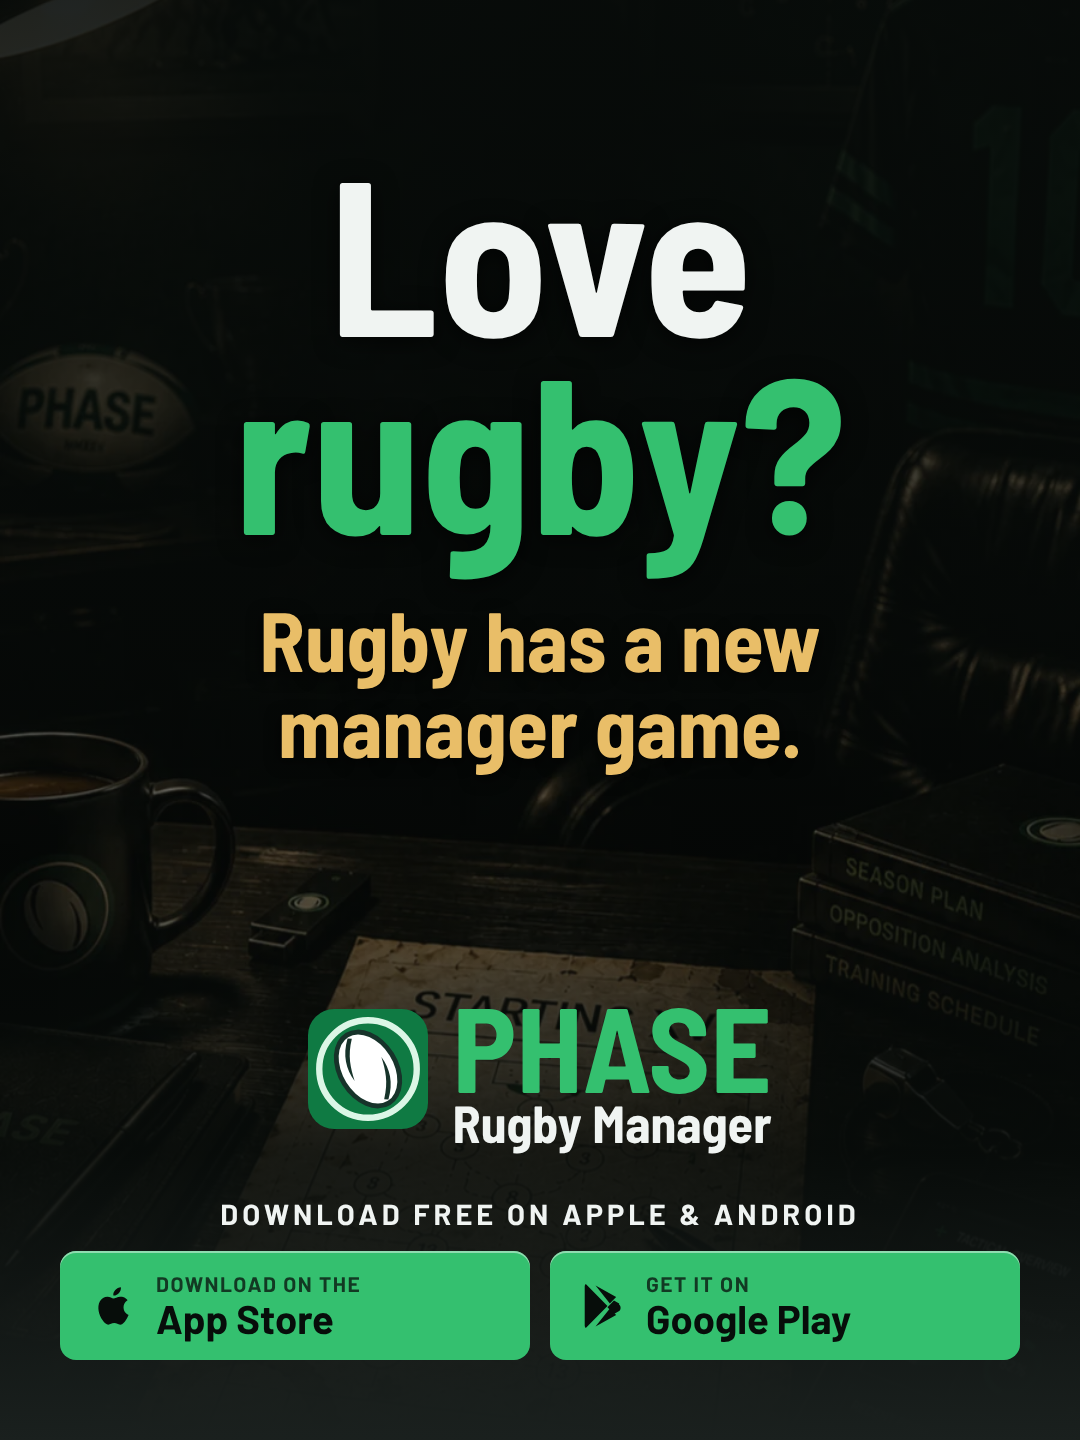
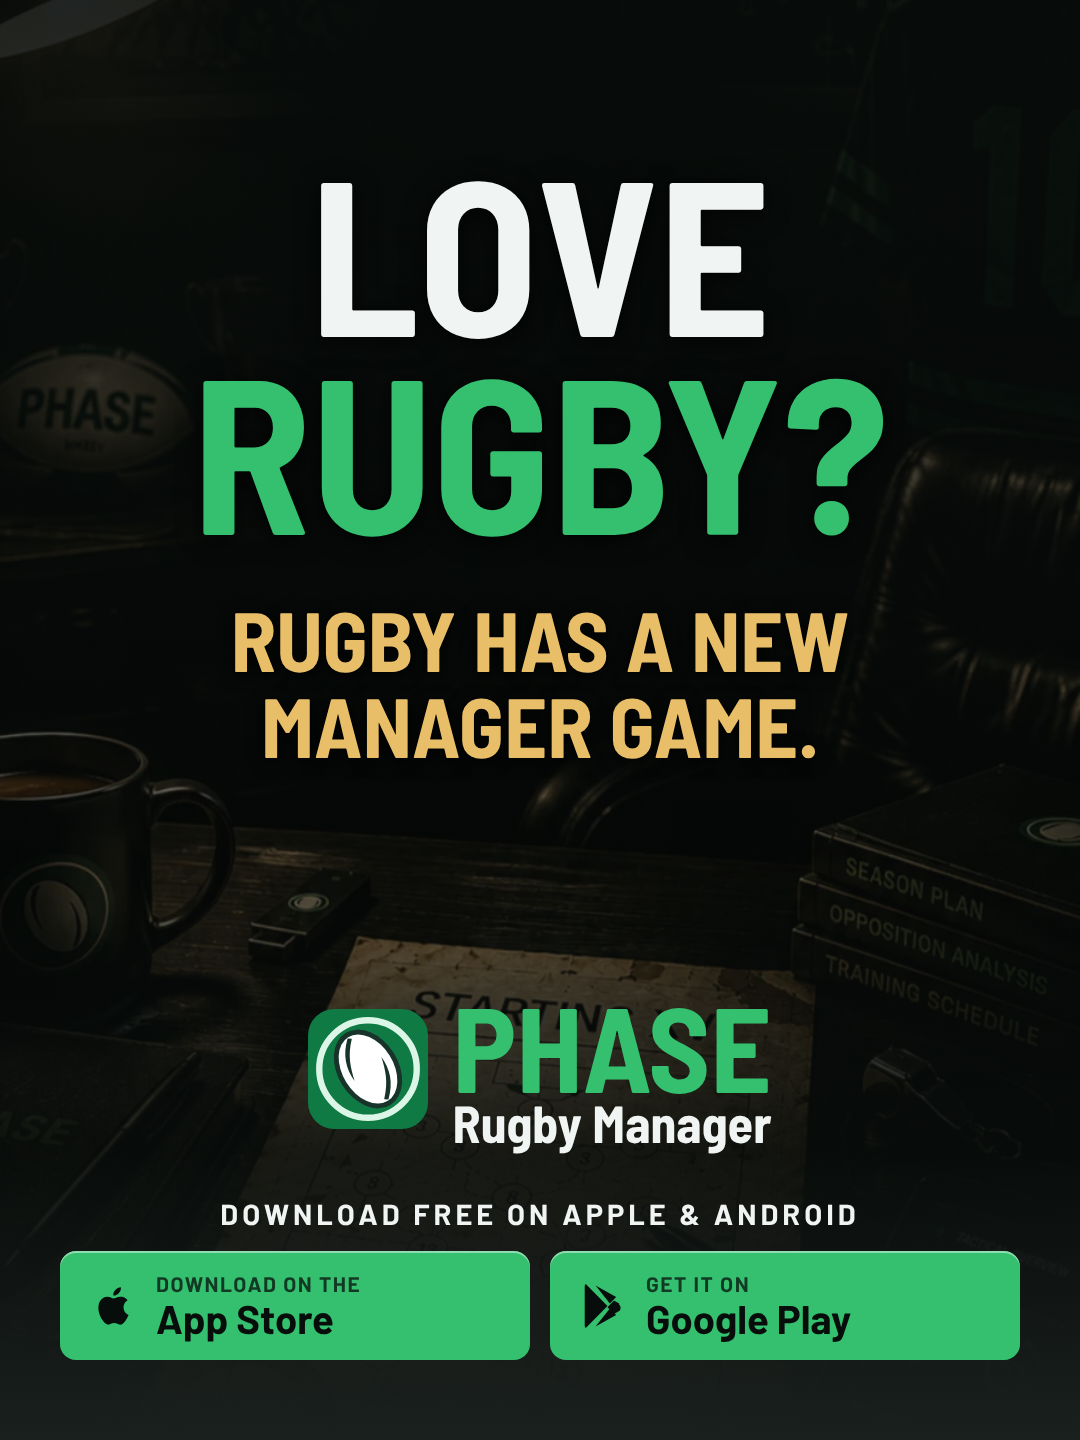
Love rugby post: headline and subline in caps
Claude-Session: https://claude.ai/code/session_01SkkDyBEzPXwLzKDjPnHoVw

Changed region(s): [[0.1833, 0.125, 0.825, 0.5625]]

diff --git a/art/social/love-rugby/love-rugby.html b/art/social/love-rugby/love-rugby.html
@@ -8,9 +8,9 @@ html,body{width:1080px;height:1440px;overflow:hidden;background:var(--canvas)}
 .bg{position:absolute;inset:0;background:url(../../../landing/img/hero.webp) center 60%/cover no-repeat}
 .shade{position:absolute;inset:0;background:linear-gradient(to bottom,rgba(8,12,10,.90) 0%,rgba(8,12,10,.72) 45%,rgba(8,12,10,.55) 60%,rgba(8,12,10,.92) 80%,var(--canvas) 100%)}
 .top{position:absolute;top:150px;left:80px;right:80px;text-align:center}
-h1{font-family:'BSC';font-size:220px;line-height:.9;text-shadow:0 4px 24px rgba(0,0,0,.7)}
+h1{text-transform:uppercase;font-family:'BSC';font-size:220px;line-height:.9;text-shadow:0 4px 24px rgba(0,0,0,.7)}
 h1 em{font-style:normal;color:var(--green);display:block}
-.sub{margin-top:50px;font-family:'BSC';font-size:84px;line-height:1.02;color:var(--gold);text-shadow:0 3px 16px rgba(0,0,0,.8)}
+.sub{text-transform:uppercase;margin-top:50px;font-family:'BSC';font-size:84px;line-height:1.02;color:var(--gold);text-shadow:0 3px 16px rgba(0,0,0,.8)}
 .bottom{position:absolute;left:60px;right:60px;bottom:80px;text-align:center}
 .brand{display:inline-flex;align-items:center;gap:24px;margin-bottom:50px}
 .brand img{width:120px;height:120px}
